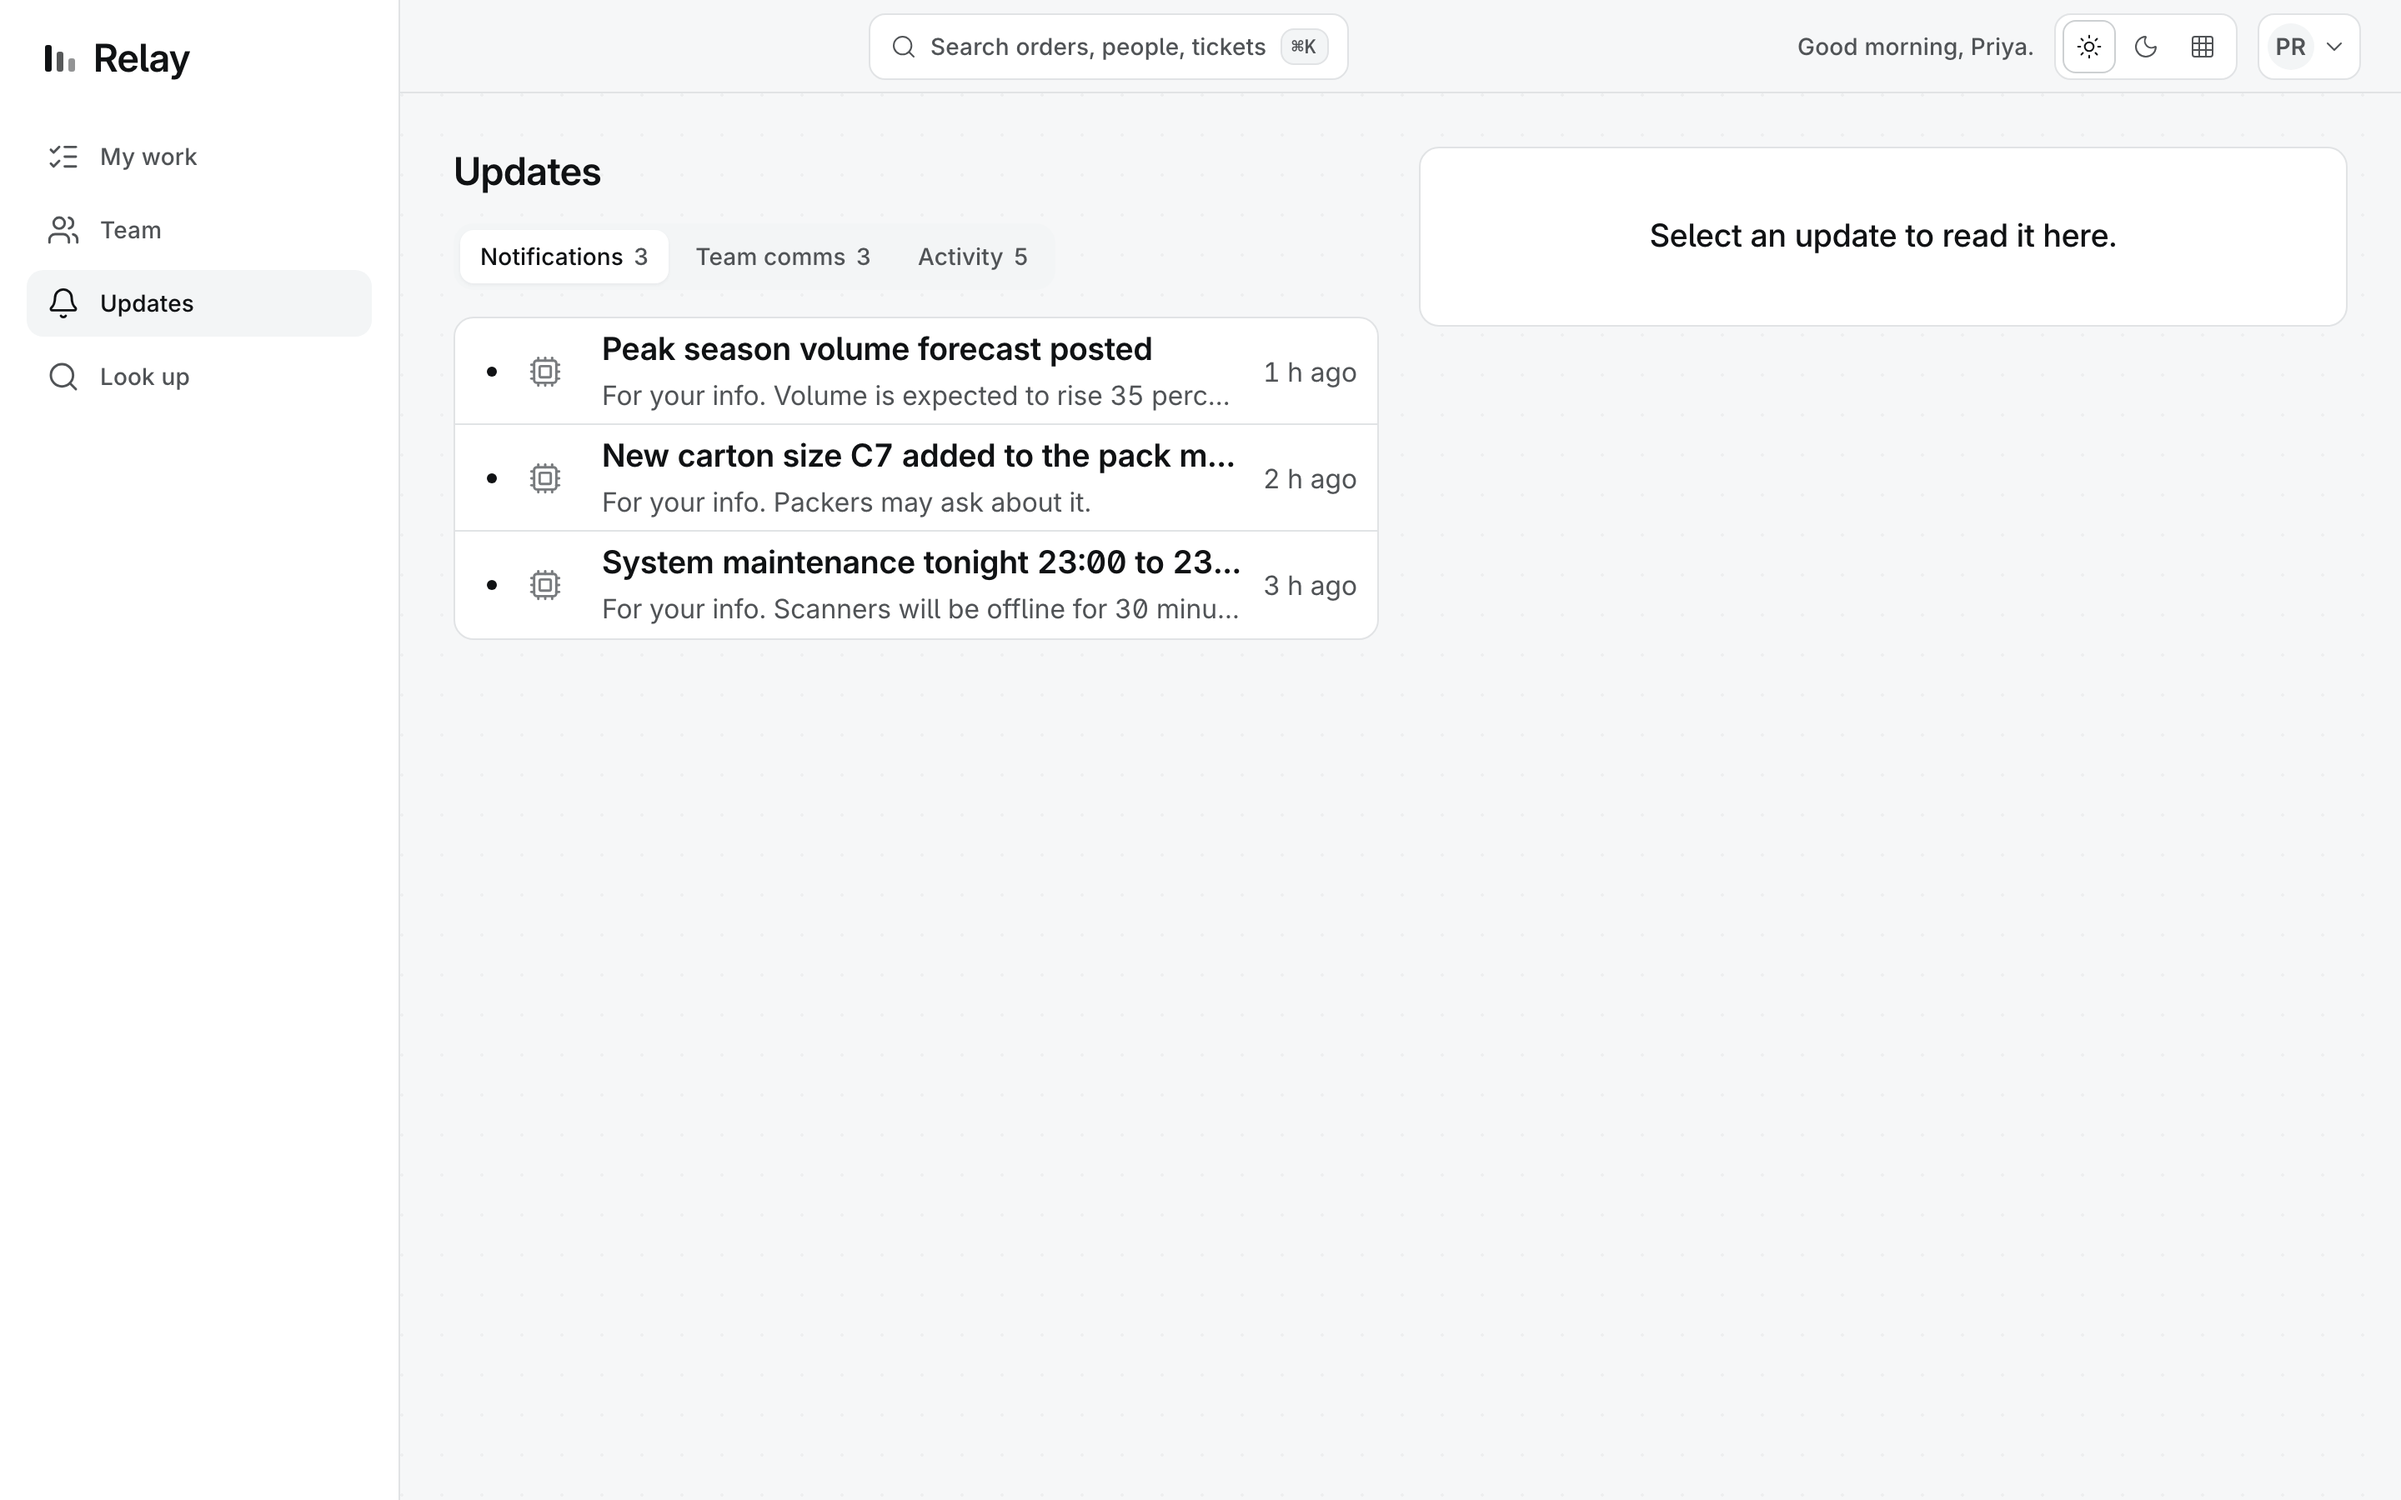
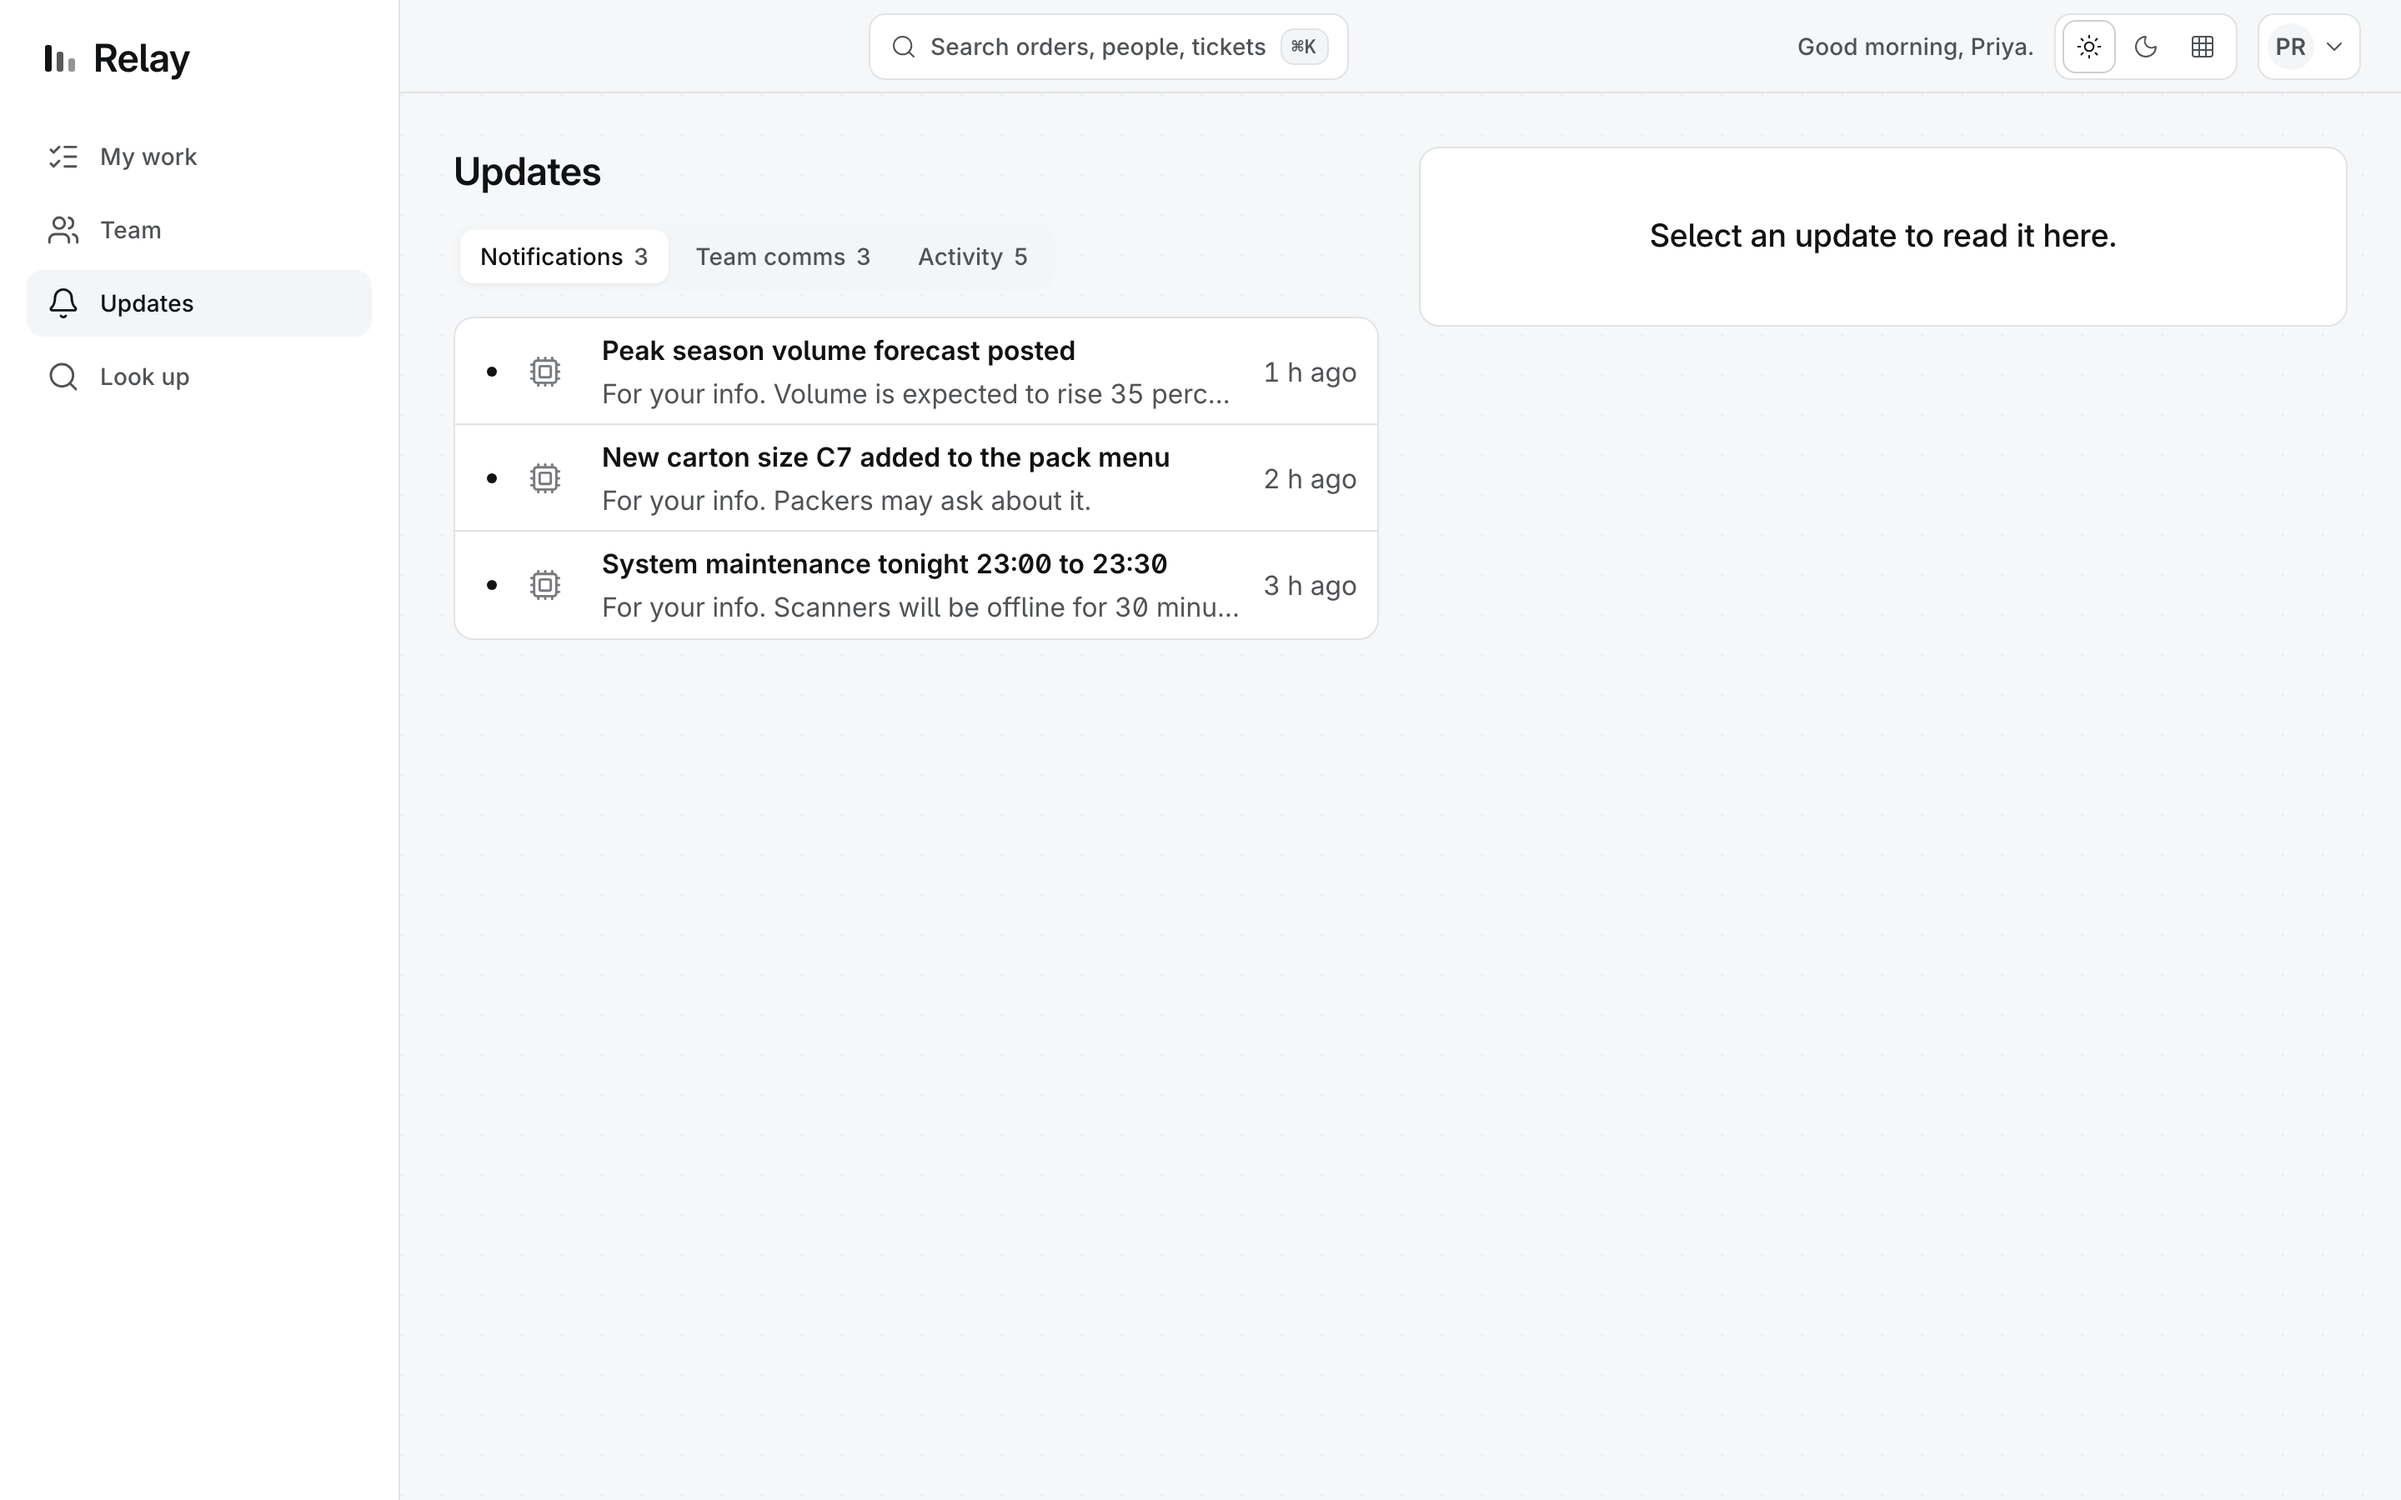
v4 craft: the update rows use the prototype's step, not the queue's
Read out of "Relay — Prototype (v3)" with the Figma API: U1's update titles
are a *named style of their own*, `t-body-semibold` — 16px / 600 — and not
the `t-row` the queue uses. The app had used `t-row` there since v3 M7,
which predates the prototype, so nothing ever reconciled the two.

Three steps too large, and it showed: at 1440px two of the three titles
truncated ("New carton size C7 added to the pack m…") where Figma's fit on
one line. That is the same complaint as the smoothing fix before it — rows
reading heavier than the prototype — but a different cause, so it needed a
different fix.

The title moves `t-row` -> `t-body`; the unread/read weights (600/500) were
already right and are unchanged, so unread is now exactly
`t-body-semibold` and read exactly `t-body-medium`.

The meta line stays `t-body` and is deliberately NOT moved to Figma's
14px: the comment above it records that 14px there pushed one size to 70%
of the page's text and broke craft check 2. Check 2 was re-run and is green
with the title at 16px.

Row titles now carry `data-row-title`. The previous test keyed off `.t-row`,
which silently stopped matching this screen the moment the step changed --
and its row loop had never been proven to see a single row, because the
body-smoothing assertion aborted the test first. The test now asserts a
settled non-zero row count before looping, and carries per-route
expectations taken from Figma rather than one global pair:

  /work     19px / 500   t-row
[…]

Changed region(s): [[0.25, 0.2178, 0.5, 0.4044]]

diff --git a/tests/e2e/craft.spec.ts b/tests/e2e/craft.spec.ts
@@ -611,50 +611,60 @@ test.describe("craft: the icon ladder", () => {
   }
 });
 
-/* The queue reads at the weight the prototype draws, not half a weight heavier.
+/* The rows read at the weight and step the prototype draws.
  *
- * Two things are pinned here, because the bug that prompted them was invisible to every
- * other check in this repo. `t-row` was already Inter Medium 500 / 19px / -0.6% — exactly
- * what "Relay — Prototype (v3)" carries — and the visual baselines stayed green, because
- * headless Chromium at 1x rasterises close to grayscale already. What differed was the
- * browser a human actually opens: macOS `font-smooth: auto` stem-darkens, so the same 500
- * arrived looking like Semi Bold.
+ * Every number below was read out of "Relay — Prototype (v3)" with the Figma API, not
+ * eyeballed: W1/T1 row titles are the `t-row` style (Inter Medium 500 / 19px / -0.6%),
+ * and U1's update titles are a different named style, `t-body-semibold` (16px / 600).
+ * The app had used `t-row` there since v3 M7, which is three steps too large — large
+ * enough that two of the three titles truncated on a 1440px screen where Figma's fit.
  *
- * So the assertion is the declaration, not the pixels. A screenshot diff cannot see this
- * and did not. */
-test.describe("craft: the rows render at Figma's weight", () => {
-  const FIGMA_ROW = { weight: "500", size: "19px" }; // Prototype (v3), Work page, row title
+ * The smoothing assertion is separate and deliberate: `t-row` was already correct, but
+ * macOS `font-smooth: auto` stem-darkens, so 500 arrived looking like Semi Bold. A
+ * screenshot diff cannot see that — 46 of 48 baselines never moved — so the contract
+ * has to be asserted as a declaration rather than as pixels. */
+test.describe("craft: the rows render at the prototype's weight and step", () => {
+  // route -> what Figma draws for that route's row title
+  const FROM_FIGMA: Record<string, { size: string; weight: string; style: string }> = {
+    "/work": { size: "19px", weight: "500", style: "t-row" },
+    "/team": { size: "19px", weight: "500", style: "t-row" },
+    "/updates": { size: "16px", weight: "500", style: "t-body-semibold" },
+  };
 
-  for (const path of ["/work", "/team", "/updates"]) {
-    test(`${path} renders text grayscale, and its rows match the prototype`, async ({ page }) => {
+  for (const [path, want] of Object.entries(FROM_FIGMA)) {
+    test(`${path} renders grayscale, and its rows match ${want.style}`, async ({ page }) => {
       await page.setViewportSize({ width: 1440, height: 900 });
       await page.goto(path);
       await animationsSettled(page);
 
-      // `-webkit-font-smoothing` is not on the CSSStyleDeclaration lib type, so it is read
-      // by property name rather than cast away.
+      // `-webkit-font-smoothing` is not on the CSSStyleDeclaration lib type, so it is
+      // read by property name rather than cast away.
       const smoothing = await page.evaluate(() =>
         getComputedStyle(document.body).getPropertyValue("-webkit-font-smoothing"),
       );
       expect(smoothing, "body must opt out of macOS stem darkening").toBe("antialiased");
 
-      // Row titles that carry no deliberate override (update-row bolds unread on purpose)
-      // must be the prototype's own step, inherited smoothing included.
-      const drift = await page.evaluate((want) => {
+      // Settled, not sampled: the persona rehydrates from localStorage after first
+      // paint, so a bare count races hydration and would let the loop below pass on an
+      // empty list — which is exactly how this assertion first went green for nothing.
+      await expect(page.locator("[data-row-title]")).not.toHaveCount(0);
+
+      const drift = await page.evaluate((w) => {
         const out: string[] = [];
-        for (const el of document.querySelectorAll("[data-craft-row] .t-row")) {
+        for (const el of document.querySelectorAll("[data-row-title]")) {
           const s = getComputedStyle(el);
-          const smooth = s.getPropertyValue("-webkit-font-smoothing");
-          if (smooth !== "antialiased") out.push(`${el.textContent?.slice(0, 20)}: smoothing ${smooth}`);
-          if (s.fontSize !== want.size) out.push(`${el.textContent?.slice(0, 20)}: ${s.fontSize}, want ${want.size}`);
-          if (!el.className.includes("font-semibold") && s.fontWeight !== want.weight) {
-            out.push(`${el.textContent?.slice(0, 20)}: weight ${s.fontWeight}, want ${want.weight}`);
+          const at = `${el.textContent?.slice(0, 18)}`;
+          if (s.getPropertyValue("-webkit-font-smoothing") !== "antialiased") out.push(`${at}: not grayscale`);
+          if (s.fontSize !== w.size) out.push(`${at}: ${s.fontSize}, want ${w.size}`);
+          // update-row bolds unread titles on purpose; every other title is the base weight.
+          if (!el.className.includes("font-semibold") && s.fontWeight !== w.weight) {
+            out.push(`${at}: weight ${s.fontWeight}, want ${w.weight}`);
           }
         }
         return out;
-      }, FIGMA_ROW);
+      }, want);
 
-      expect(drift, "rows drifted from the prototype's type step").toEqual([]);
+      expect(drift, `rows drifted from ${want.style}`).toEqual([]);
     });
   }
 });

diff --git a/components/relay/people-row.tsx b/components/relay/people-row.tsx
@@ -60,7 +60,7 @@ export function PeopleRow({ person, currentItem, counts, candidates, now, onOpen
         <PersonAvatar initials={person.initials} />
         {person.status === "working" ? (
           <span className="min-w-0 truncate">
-            <span className="t-row text-(--text-1)">{person.name}</span>
+            <span data-row-title className="t-row text-(--text-1)">{person.name}</span>
             <span className="t-meta text-(--text-2)"> · {person.role}</span>
           </span>
         ) : (
@@ -73,7 +73,7 @@ export function PeopleRow({ person, currentItem, counts, candidates, now, onOpen
              exactly these people. So the chip moved there. It can no longer be squeezed
              by anything, the name is no longer squeezed by it, and a column that was
              blank on every away row now says what the person is doing. */
-          <span className="t-row min-w-0 truncate text-(--text-1)">{person.name}</span>
+          <span data-row-title className="t-row min-w-0 truncate text-(--text-1)">{person.name}</span>
         )}
       </div>
 

diff --git a/components/relay/queue-row.tsx b/components/relay/queue-row.tsx
@@ -104,7 +104,7 @@ export function QueueRow({
         data-row-nav
         className={cn("flex min-w-0 flex-col justify-center gap-0.5 rounded-(--r-2)", FOCUS)}
       >
-        <span className="t-row truncate text-(--text-1)">{item.title}</span>
+        <span data-row-title className="t-row truncate text-(--text-1)">{item.title}</span>
         {/* §3.4: the row subtitle is the one step that goes *up* on a handheld — it is
             the only text that explains rank, and 350mm of reading distance makes 14px
             needlessly small where the width is there for 16. Below 768 it also carries

diff --git a/components/relay/update-row.tsx b/components/relay/update-row.tsx
@@ -84,7 +84,7 @@ export function UpdateRowView({ row, author, now, unread, selected, onSelect }: 
       </span>
 
       <span className="pointer-events-none flex min-w-0 flex-col justify-center gap-0.5">
-        <span className={cn("t-row truncate", unread ? "font-semibold text-(--text-1)" : "font-medium text-(--text-1)")}>
+        <span data-row-title className={cn("t-body truncate", unread ? "font-semibold text-(--text-1)" : "font-medium text-(--text-1)")}>
           {titleLine}
         </span>
         {/* t-body, not t-meta: on a page this short, a list of tab labels plus one
